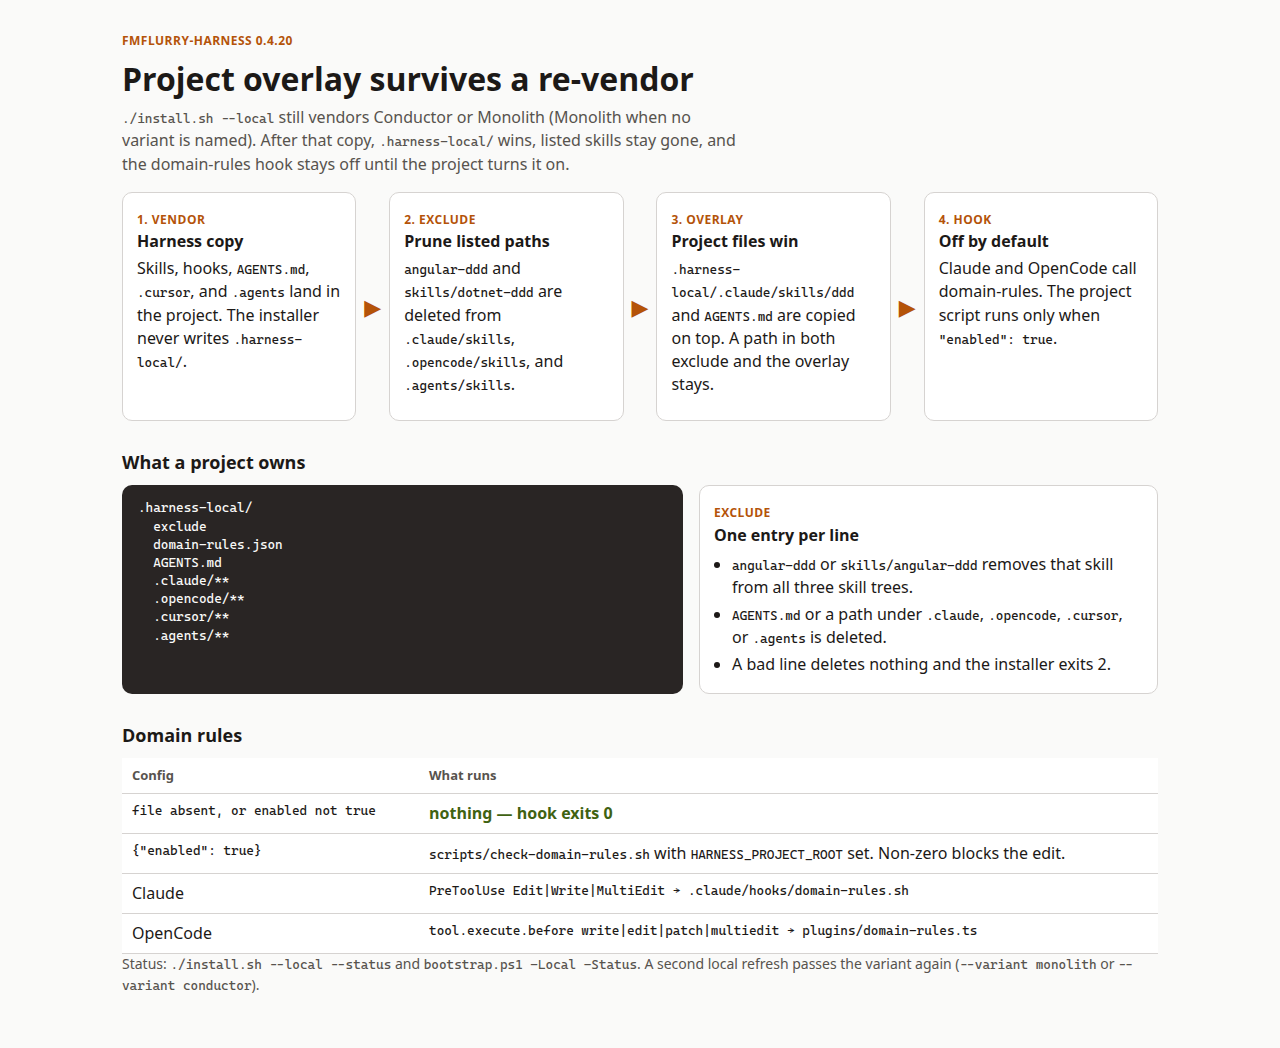
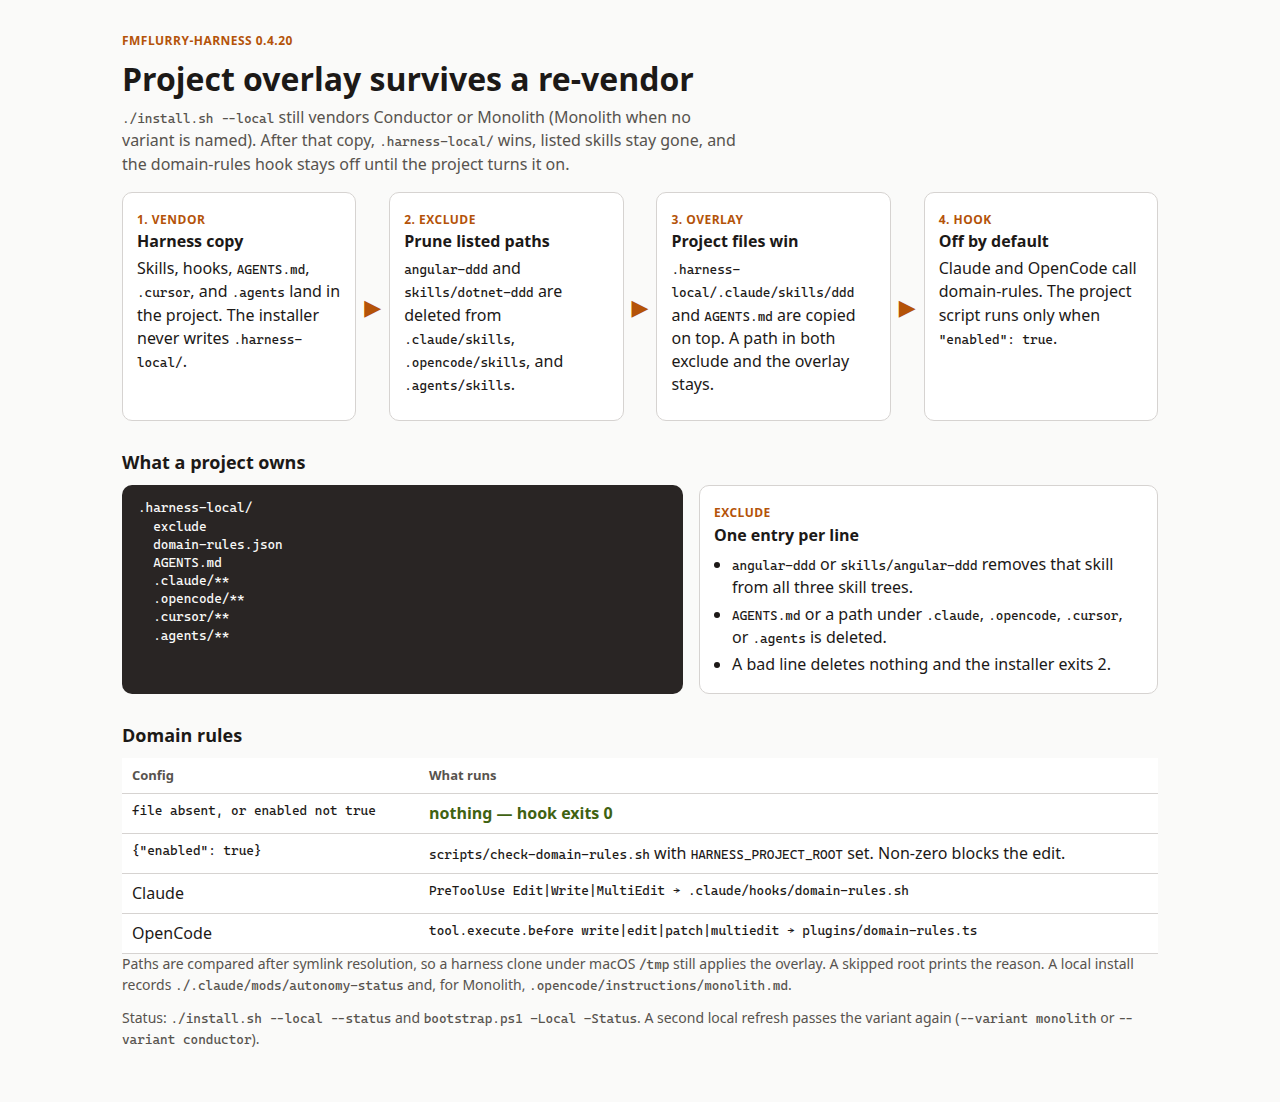
docs: note symlink-safe local paths

Changed region(s): [[0.0938, 0.3969, 0.9062, 0.9466], [0.0938, 0.0305, 0.5938, 0.3969], [0.4688, 0.1832, 0.9062, 0.3969]]

diff --git a/docs/pr-reports/feat-project-overlay-exclude.html b/docs/pr-reports/feat-project-overlay-exclude.html
@@ -98,6 +98,7 @@
       <tr><td>OpenCode</td><td class="mono">tool.execute.before write|edit|patch|multiedit → plugins/domain-rules.ts</td></tr>
     </tbody>
   </table>
+  <p class="note">Paths are compared after symlink resolution, so a harness clone under macOS <code>/tmp</code> still applies the overlay. A skipped root prints the reason. A local install records <code>./.claude/mods/autonomy-status</code> and, for Monolith, <code>.opencode/instructions/monolith.md</code>.</p>
   <p class="note">Status: <code>./install.sh --local --status</code> and <code>bootstrap.ps1 -Local -Status</code>. A second local refresh passes the variant again (<code>--variant monolith</code> or <code>--variant conductor</code>).</p>
 </main>
 </body>

diff --git a/README.md b/README.md
@@ -271,7 +271,7 @@ Conductor is the conductor-led tree at the repo root. Monolith (`variants/monoli
 
 ### Project overlay (`.harness-local/`)
 
-`./install.sh --local` (Conductor or Monolith) reads a project-owned directory and never creates, edits, or deletes it. Layout, exclude format, and the off-by-default domain-rules hook are in [`docs/harness-local.md`](docs/harness-local.md).
+`./install.sh --local` (Conductor or Monolith) reads a project-owned directory and never creates, edits, or deletes it. A symlink such as macOS `/tmp` still applies that overlay, and a skipped root prints why. Local settings record `./.claude/mods/autonomy-status`. Monolith records `.opencode/instructions/monolith.md`. Layout, exclude format, and the off-by-default domain-rules hook are in [`docs/harness-local.md`](docs/harness-local.md).
 
 ```text
 .harness-local/exclude                         # skill ids and harness paths to prune
@@ -1075,7 +1075,7 @@ Les hooks et les plugins OpenCode code-memory ne font rien quand la décision es
 - Contextes (memos de mode): `contexts/*.md`.
 - Instructions globales: `instructions/*.md` (6 chargees au demarrage; le reste est un skill ou un fichier non charge).
 - Scripts: `scripts/setup-package-manager.js`, `scripts/codemaps/generate.ts`, `scripts/llm-metrics-dashboard.ts`, `scripts/settings-sync.sh`, `scripts/sync-skills.sh`, `scripts/skill-drift-check.sh`.
-- Installeurs: `bootstrap.sh`, `bootstrap.ps1`, `install.sh`, `install-cursor.sh`. `./install.sh` demande Conductor (defaut global) ou Monolith; `./install.sh conductor`, `./install.sh monolith`, `--variant` et `HARNESS_VARIANT` font le meme choix sans prompt. `orchestration` est un alias de Conductor. `./install.sh --local` et `./install-cursor.sh` sont Monolith par defaut. `./install.sh --status` et `./install-cursor.sh --status` affichent la variante installee. `./install.sh --local` applique aussi `.harness-local/` (jamais modifié par l'installeur) par-dessus `.claude/`, `.opencode/`, `AGENTS.md`, `.cursor/` et `.agents/`. `.harness-local/exclude` liste les skills et chemins à ne pas réinstaller. Le hook domain-rules reste éteint tant que `.harness-local/domain-rules.json` ne contient pas `"enabled": true`. Détail: `docs/harness-local.md`. `./install.sh --local --status` affiche l'overlay et les exclusions.
+- Installeurs: `bootstrap.sh`, `bootstrap.ps1`, `install.sh`, `install-cursor.sh`. `./install.sh` demande Conductor (defaut global) ou Monolith; `./install.sh conductor`, `./install.sh monolith`, `--variant` et `HARNESS_VARIANT` font le meme choix sans prompt. `orchestration` est un alias de Conductor. `./install.sh --local` et `./install-cursor.sh` sont Monolith par defaut. `./install.sh --status` et `./install-cursor.sh --status` affichent la variante installee. `./install.sh --local` applique aussi `.harness-local/` (jamais modifié par l'installeur) par-dessus `.claude/`, `.opencode/`, `AGENTS.md`, `.cursor/` et `.agents/`, y compris quand le clone est atteint par un lien symbolique. Un répertoire ignoré affiche la raison. Le mode local écrit `./.claude/mods/autonomy-status`, et Monolith écrit `.opencode/instructions/monolith.md`. `.harness-local/exclude` liste les skills et chemins à ne pas réinstaller. Le hook domain-rules reste éteint tant que `.harness-local/domain-rules.json` ne contient pas `"enabled": true`. Détail: `docs/harness-local.md`. `./install.sh --local --status` affiche l'overlay et les exclusions.
 - Mirror Claude Code: `.claude/CLAUDE.md`, `.claude/settings.json`, `.claude/hooks/`, `.claude/rules/`, `.claude/agents/`, `.claude/skills/`, `.claude/commands/`.
 - Exclusions volontaires (`.gitignore`): `node_modules/`, `antigravity-*`, `.DS_Store`, fichiers locaux `.env*` sauf `.env.example`, répertoire runtime `skills/skill-creator/`.
 

diff --git a/docs/harness-local.md b/docs/harness-local.md
@@ -21,6 +21,17 @@ The installer never creates, edits, or deletes `.harness-local/` or anything ins
 
 Overlay files are copied after excludes. A file present in the overlay stays, including when the same path is listed in `exclude`.
 
+The installer resolves the harness directory and the project root before it compares them (`cd -P` and `pwd -P`, or `realpath` when that is unavailable). A clone reached through a symlink, including macOS `/tmp` (a link to `/private/tmp`), still applies `.harness-local/`.
+
+If a managed root is not overlaid, the installer prints why. A root is skipped when that target was disabled, was not installed, or is the source checkout.
+
+A `--local` install records project-relative paths where the tools accept them:
+
+- `.claude/settings.json` sets `CLAUDE_CODE_PLUGIN_DIRS` to `./.claude/mods/autonomy-status`
+- Monolith sets the `instructions` entry in `.opencode/opencode.jsonc` to `.opencode/instructions/monolith.md`
+
+A global install keeps `~/.claude/mods/autonomy-status` and `~/.config/opencode/instructions/monolith.md`.
+
 ## `exclude`
 
 UTF-8 text. One entry per line. Blank lines and lines starting with `#` are ignored.
